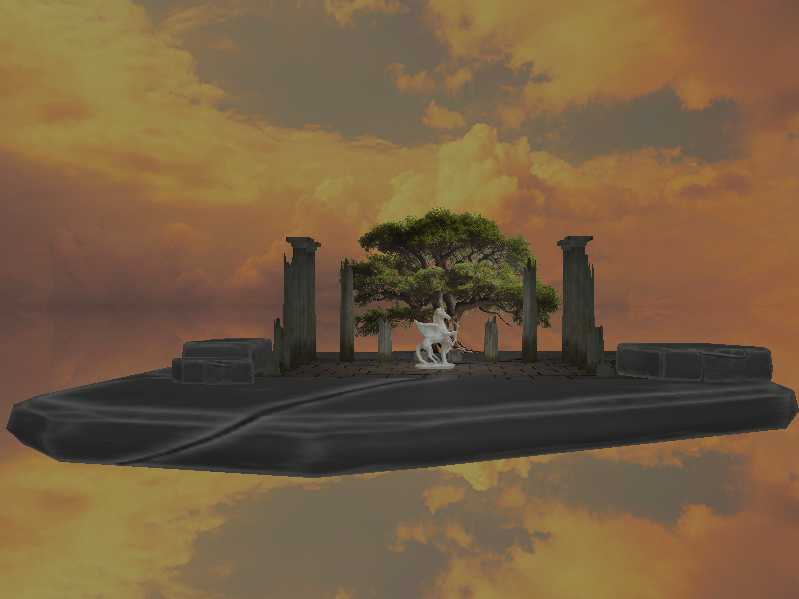
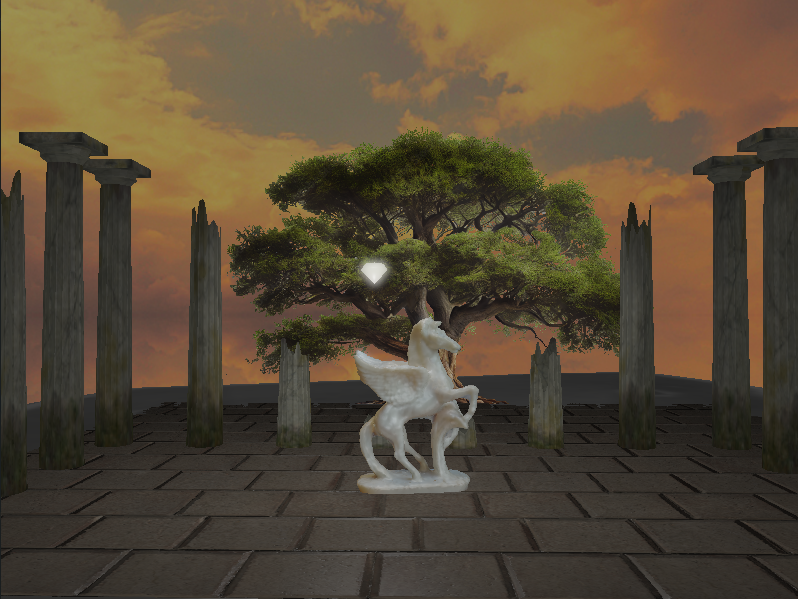
Dodat dijamant

diff --git a/src/main.cpp b/src/main.cpp
@@ -215,6 +215,7 @@ int main()
     Model ourModel("resources/objects/unicorn/flying-unicorn.obj");
     Model rockModel("resources/objects/rock/stone7_uv.obj");
     Model columnModel("resources/objects/OldColumn_OBJ/OldColumn.obj");
+    Model diamondModel("resources/objects/diamond/Diamond.obj");
 
     //skybox
 
@@ -491,7 +492,7 @@ int main()
         //------------- Pegasus -----------------------
         ourShader.use();
         // Point light
-        pointLight.position = glm::vec3(4.0f * cos(currentFrame), 0.0f, 5.0f);
+        pointLight.position = glm::vec3(4.0f * cos(currentFrame), 1.0f , 5.5f + sin(currentFrame) );
         //pointLight.position = glm::vec3(0.0f, 1.0f, 4.0f);
         ourShader.setVec3("pointLight.position", pointLight.position);
         ourShader.setVec3("pointLight.ambient", pointLight.ambient);
@@ -565,6 +566,16 @@ int main()
             columnModel.Draw(ourShader);
         }
         glEnable(GL_CULL_FACE);
+
+
+        // ------- Diamond ----------
+        ourShader.use();
+        model = glm::mat4(1.0f);
+        model = glm::translate(model, pointLight.position);
+        model = glm::scale(model, glm::vec3(0.01));
+        ourShader.setMat4("model", model);
+        diamondModel.Draw(ourShader);
+
 
         // ----------- Floor  ----------------
 

diff --git a/README.md b/README.md
@@ -7,10 +7,8 @@
 | ![img](img/Pegaz.gif) |
 | --- |
 
-| ![img](img/Pegaz2.gif) |
-| --- |
 
-Youtube video: [Pegaz](https://youtu.be/7FZcY5ZNA18)<br>
+Youtube video: [Pegaz](https://youtu.be/2zrxpyFGInw)<br>
 
 # project_base
 Prazan projekat sa pratećim bibliotekama koje koristimo na času `https://github.com/matf-racunarska-grafika/project_base.git`
@@ -46,7 +44,7 @@ Prazan projekat sa pratećim bibliotekama koje koristimo na času `https://githu
 -   **Advaced lighting**: osvetljenje se računa po Blinn-Phongovom modelu
 -   **Cubemaps (grupa A)**: skybox
 -   **Normal i Parallax mapping (grupa B)**: ploče na podlozi
--   **Bloom (grupa B)**: na Pegazu kad je osvetljen
+-   **Bloom (grupa B)**: na dijamantu i presijavanje na Pegazu
 
 ## Detalji o kursu
 
